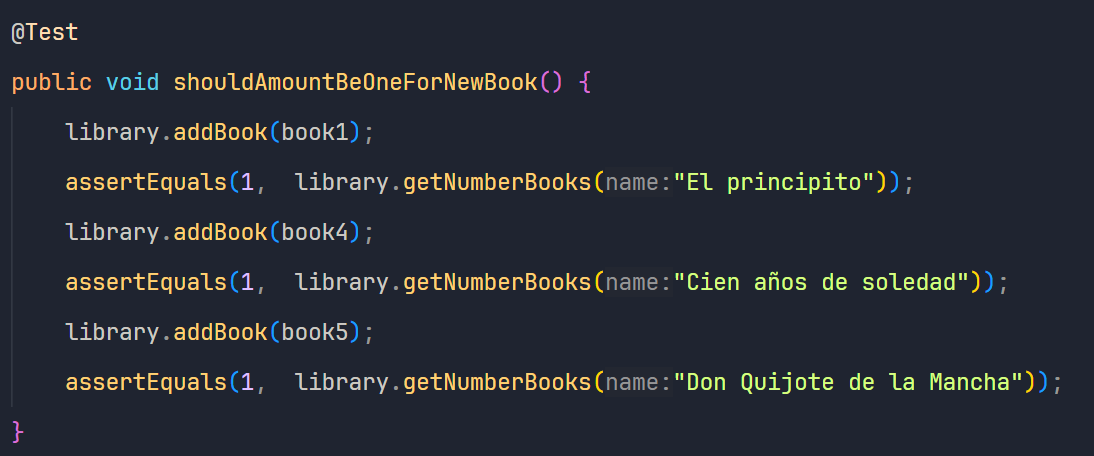
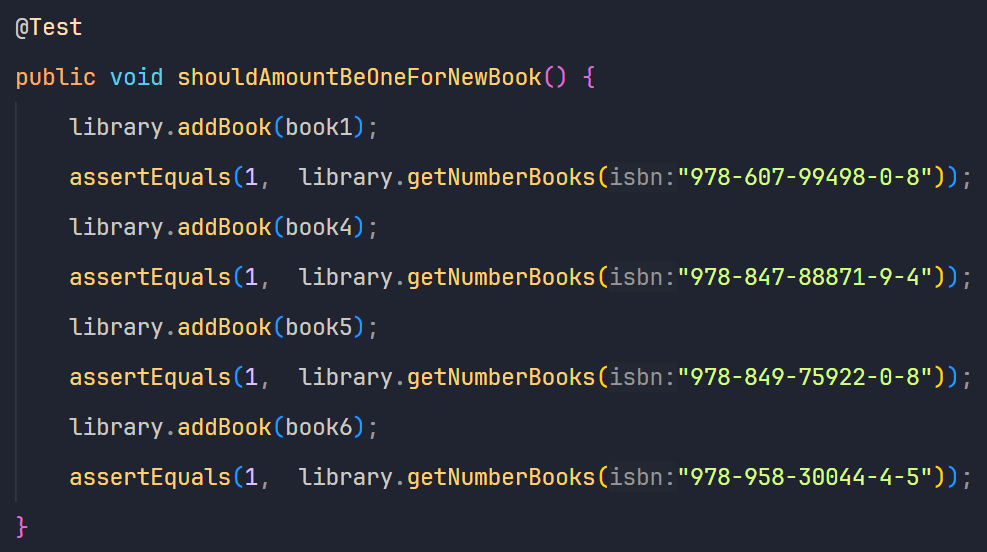
Actualice la prueba shouldAmountBeOneForNewBook

diff --git a/src/test/java/edu/eci/cvds/tdd/library/LibraryTest.java b/src/test/java/edu/eci/cvds/tdd/library/LibraryTest.java
@@ -79,15 +79,17 @@ public class LibraryTest {
         assertEquals(3,  library.getNumberBooks("978-607-99498-0-8"));
     }
 
-    // @Test
-    // public void shouldAmountBeOneForNewBook() {
-    //     library.addBook(book1);
-    //     assertEquals(1,  library.getNumberBooks("El principito"));
-    //     library.addBook(book4);
-    //     assertEquals(1,  library.getNumberBooks("Cien años de soledad"));
-    //     library.addBook(book5);
-    //     assertEquals(1,  library.getNumberBooks("Don Quijote de la Mancha"));
-    // }
+    @Test
+    public void shouldAmountBeOneForNewBook() {
+        library.addBook(book1);
+        assertEquals(1,  library.getNumberBooks("978-607-99498-0-8"));
+        library.addBook(book4);
+        assertEquals(1,  library.getNumberBooks("978-847-88871-9-4"));
+        library.addBook(book5);
+        assertEquals(1,  library.getNumberBooks("978-849-75922-0-8"));
+        library.addBook(book6);
+        assertEquals(1,  library.getNumberBooks("978-958-30044-4-5"));
+    }
 
     // @Test
     // public void shouldLoanABook() {
